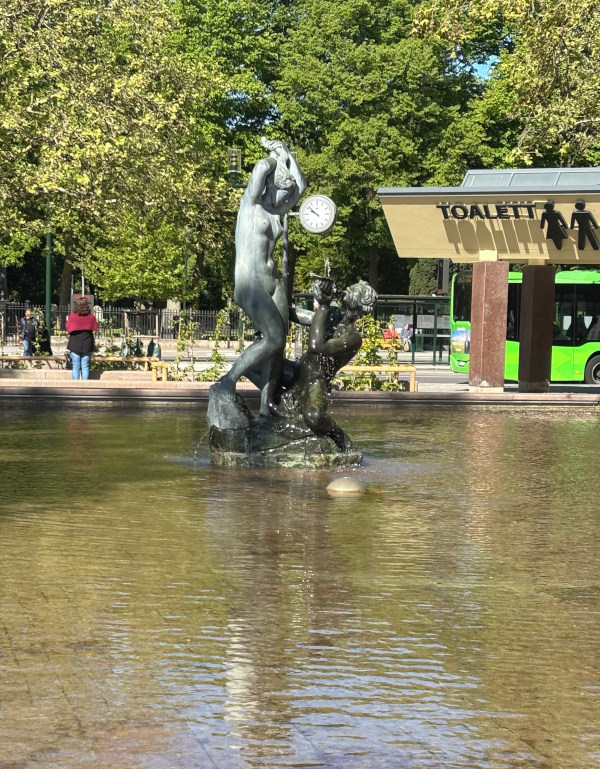
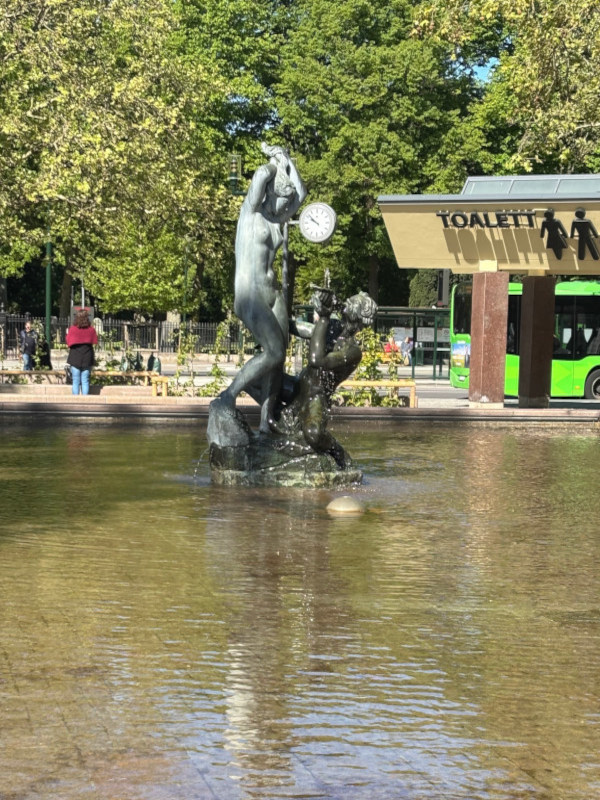
justerat bildhöjd

diff --git a/index.htm b/index.htm
@@ -61,13 +61,11 @@
     <section id="gallery">
         <h2>Galleri</h2>
         <div class="gallery">
-    
-    
-            <img src="img/drake.jpg" alt="Bild 1">
+
+            <img src="img/drake.jpg" alt="drake">        
             <img src="img/gustav1.jpeg" alt="gustav 1">
-    
-            <img src="img/gustavFontan.jpg" alt="gustav 1">
-            <img src="img/IMG_5037.xcf" alt="Bild 3">
+            <img src="img/gustavFontan.jpg" alt="fontan">
+            <imgx src="img/IMG_5037.xcf" alt="Bild 3">
 
 
         </div>
